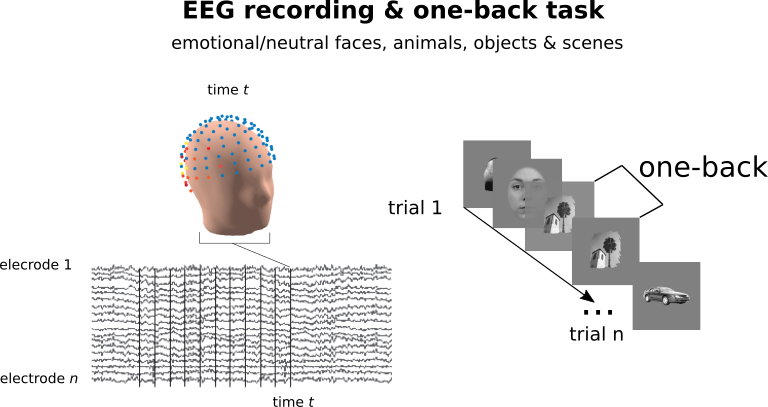
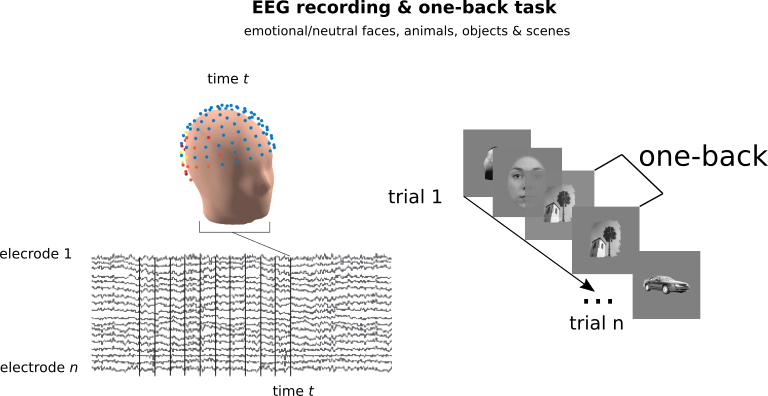
now with experimental stimuli

diff --git a/README.md b/README.md
@@ -27,12 +27,10 @@ The structure of the analyses  will rely on :
 
 # Data
 
-Description : N = 21 neurotypical human participants; preprocessed EEG recordings (128 electrodes BioSemi); 
-~3200 trials per particpant (total trials > 63 000).
+Description : N = 23 neurotypical human participants; preprocessed EEG recordings (128 electrodes BioSemi); 
+~3200 trials per particpant (total trials ~= 73,000).
 
-Task: 
-
-Participants completed a simple one-back task over a stream of images containing faces of different emotions/gender, human-made/natural objects, animals and scenes.
+Task: participants completed a simple one-back task over a stream of images containing faces of different emotions/gender, human-made/natural objects, animals and scenes.
 They had to answer (key press) whenever two identical images were shown in a row (e.g. imgA-imgZ-imgR-*imgR*).
 
 ![alt text](methods_eeg_oneback.png)
